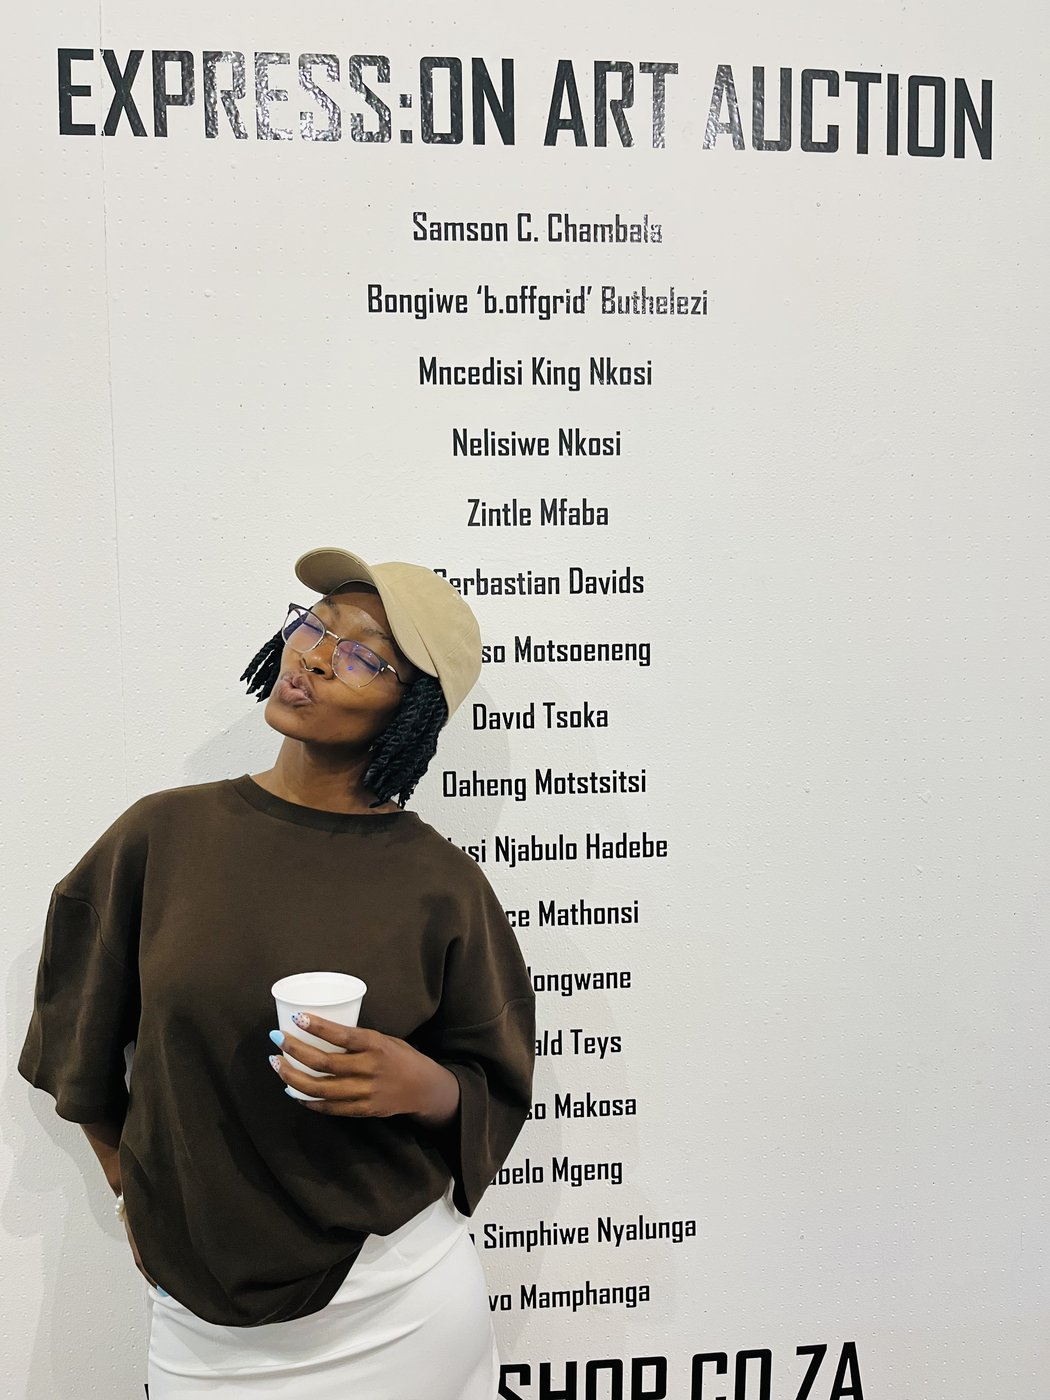
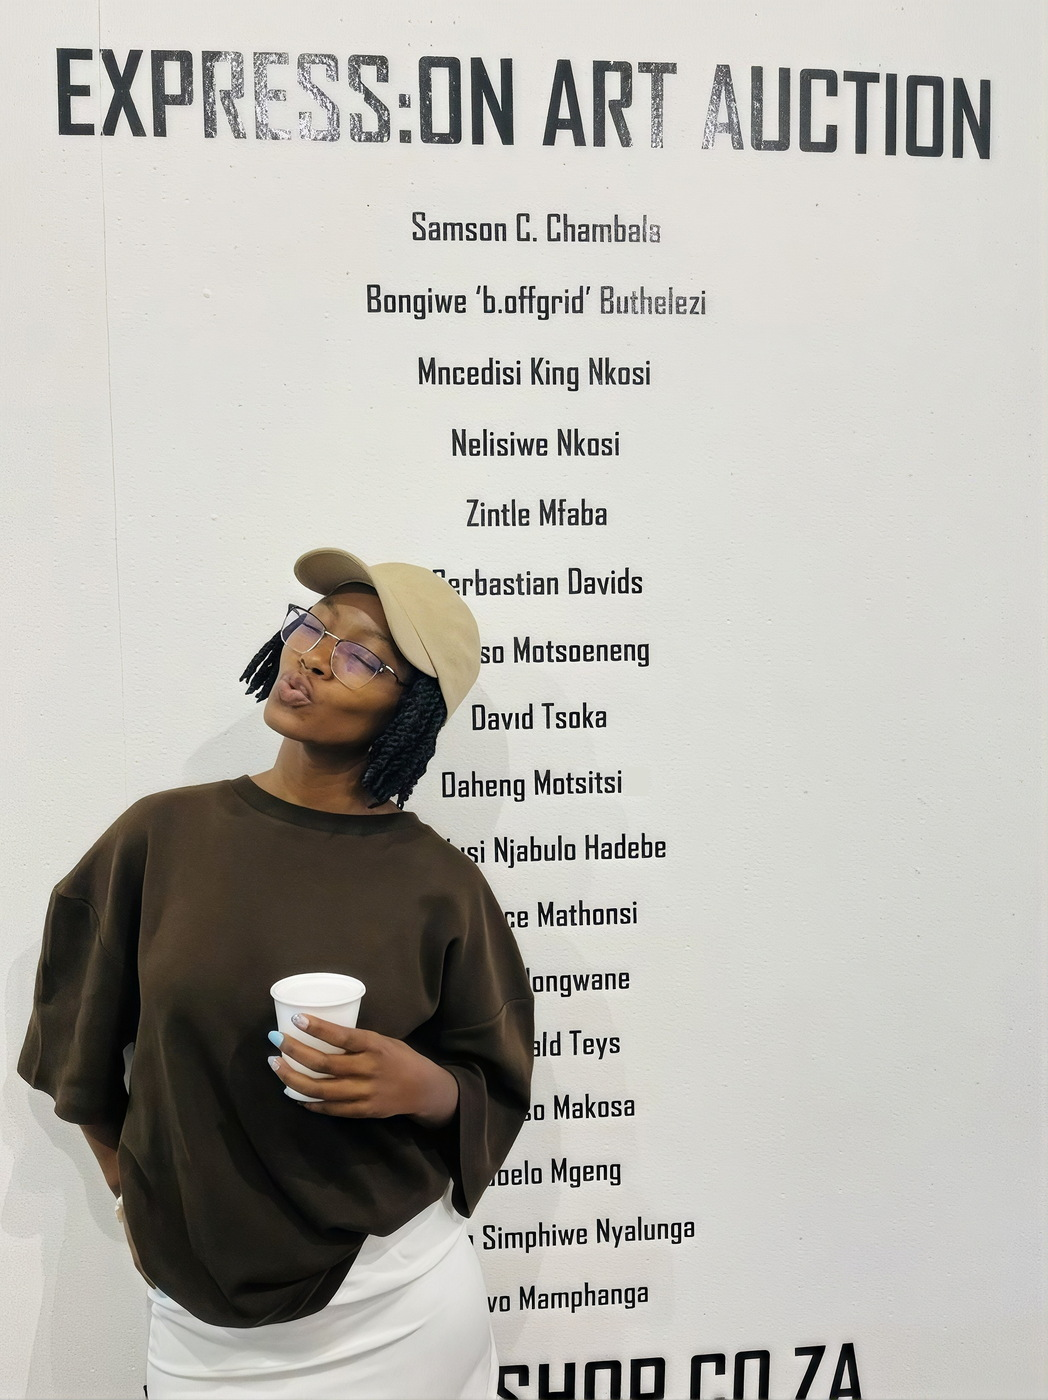
Update Mpho and the ExpressOn poster from Dominic's re-exports
Mpho: the 17:00 export, replacing the earlier one.
ExpressOn poster: surname corrected on the wall, Motstsitsi -> Motsitsi;
also a resolution gain, 1050x1400 -> 1048x1400 from a 1802x2405 source.

Both PNGs carried a single semi-transparent column at the right edge
from the Photoshop export; dropped rather than flattened against a
guessed background.

diff --git a/index.html b/index.html
@@ -902,7 +902,7 @@ footer.bg-12-footer{padding-top:calc(40px + 64px)}
       <figure><div class="art-img"><img src="images/thumb/install-wall.webp" loading="lazy" alt="Installation view" width="620" height="827"></div><figcaption>Installation · The Viewing Room, 2025</figcaption></figure>
       <figure><div class="art-img"><img src="images/thumb/ex-monna.webp" loading="lazy" alt="Monna ke Nku poster" width="620" height="620"></div><figcaption>Monna ke Nku… · exhibition poster</figcaption></figure>
       <figure><div class="art-img"><img src="images/thumb/install-group.webp" loading="lazy" alt="Works in the gallery" width="620" height="561"></div><figcaption>Works on view</figcaption></figure>
-      <figure><div class="art-img"><img src="images/thumb/ex-expresson2.webp" loading="lazy" alt="ExpressOn Art Auction poster" width="620" height="827"></div><figcaption>ExpressOn Art Auction · Springs, 2025</figcaption></figure>
+      <figure><div class="art-img"><img src="images/thumb/ex-expresson2.webp" loading="lazy" alt="ExpressOn Art Auction poster" width="620" height="828"></div><figcaption>ExpressOn Art Auction · Springs, 2025</figcaption></figure>
       <figure><div class="art-img"><img src="images/thumb/ex-wall-2.webp" loading="lazy" alt="Works on a gallery wall" width="620" height="349"></div><figcaption>On the wall · group exhibition</figcaption></figure>
       <figure><div class="art-img"><img src="images/thumb/ex-install-2.webp" loading="lazy" alt="Gallery installation view" width="620" height="827"></div><figcaption>Installation · gallery view</figcaption></figure>
       <figure><div class="art-img"><img src="images/thumb/ex-studio-wall.webp" loading="lazy" alt="Studio wall of works" width="620" height="465"></div><figcaption>The studio wall · the body of work</figcaption></figure>
